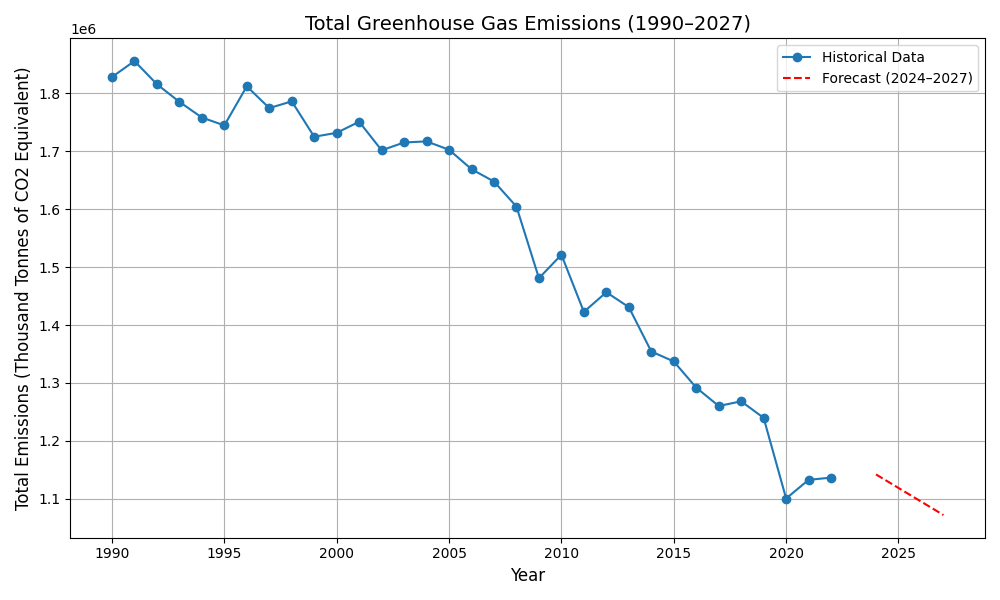
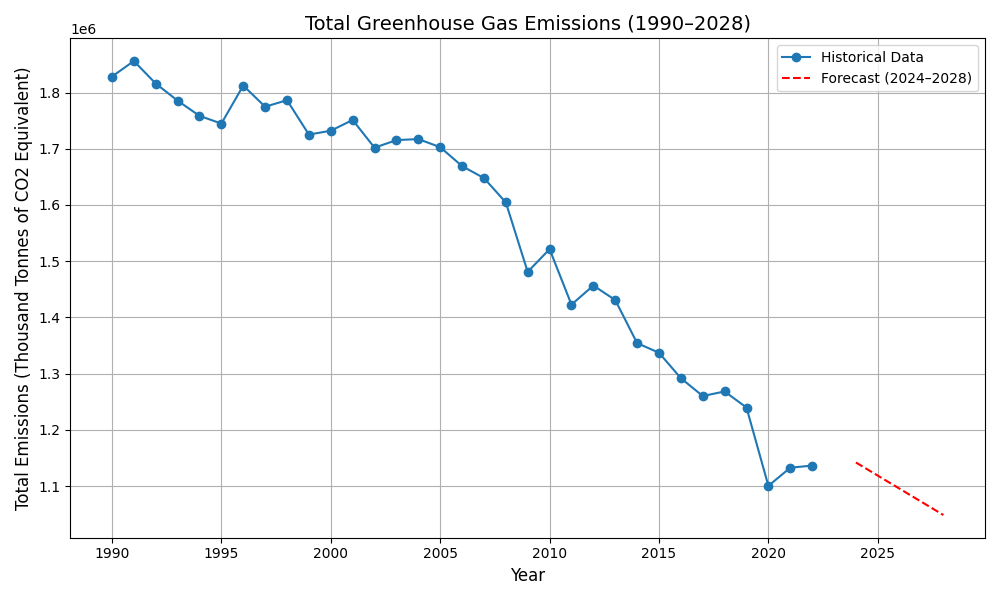
Update forecast to include 2024–2028 and regenerate Figure 1

diff --git a/main.py b/main.py
@@ -56,8 +56,8 @@ def plot_historical_with_forecast(data, future_years, predicted_values):
     """Plots the historical trend along with future forecasts."""
     plt.figure(figsize=(10, 6))
     plt.plot(data["Year"], data["Total Emissions"], marker='o', label="Historical Data")
-    plt.plot(future_years, predicted_values, 'r--', label="Forecast (2024–2027)")
-    plt.title("Total Greenhouse Gas Emissions (1990–2027)", fontsize=14)
+    plt.plot(future_years, predicted_values, 'r--', label="Forecast (2024–2028)")
+    plt.title("Total Greenhouse Gas Emissions (1990–2028)", fontsize=14)
     plt.xlabel("Year", fontsize=12)
     plt.ylabel("Total Emissions (Thousand Tonnes of CO2 Equivalent)", fontsize=12)
     plt.legend()
@@ -128,7 +128,7 @@ if __name__ == "__main__":
     y = GHG_table1_cleaned["Total Emissions"].values
     model = LinearRegression()
     model.fit(X, y)
-    future_years = np.array([2024, 2025, 2026, 2027]).reshape(-1, 1)
+    future_years = np.array([2024, 2025, 2026, 2027, 2028]).reshape(-1, 1)
     predicted_emissions = model.predict(future_years)
 
     # Generate visualizations
